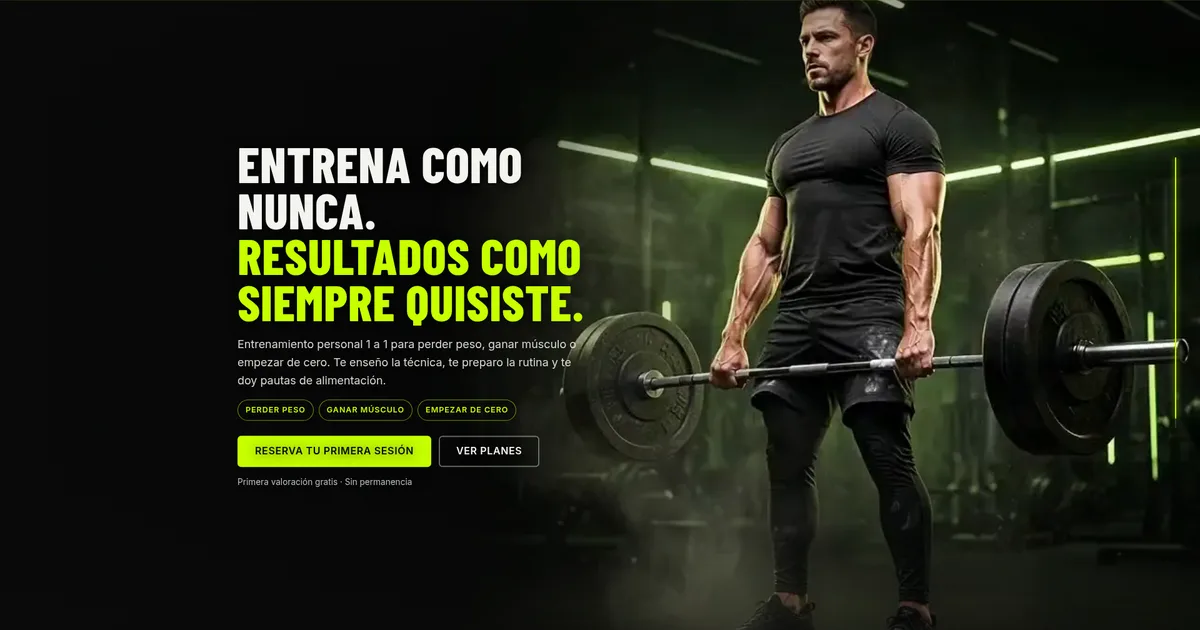
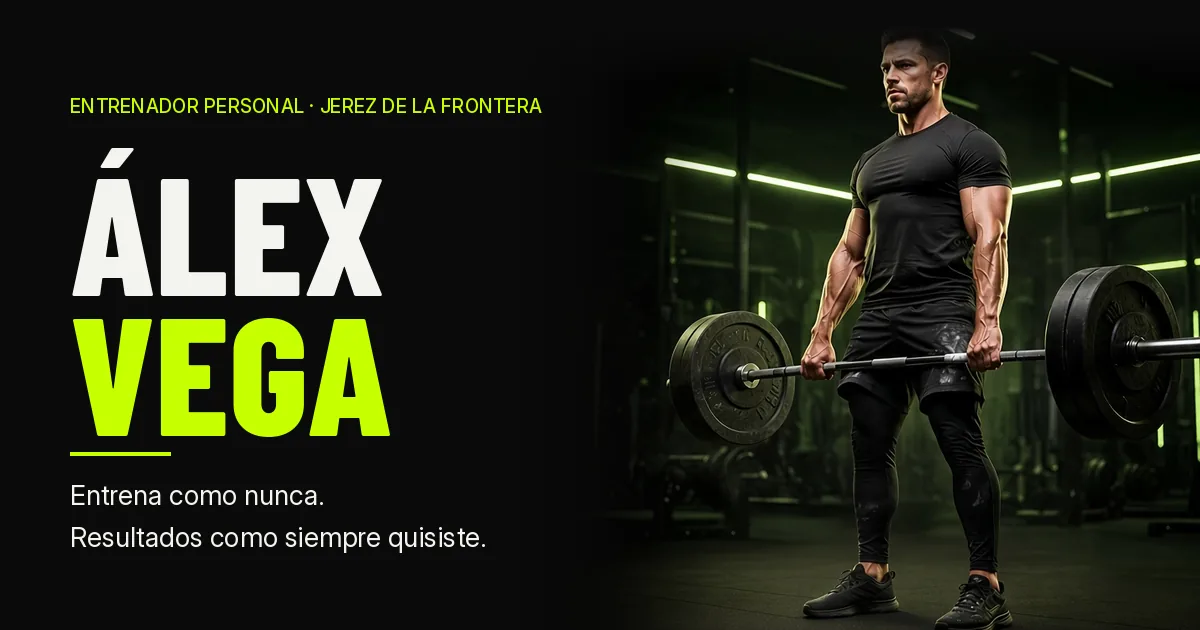
Tarjeta Álex Vega de Pixel

diff --git a/webs.js b/webs.js
@@ -5,7 +5,7 @@ window.WEBS = {
       img: "img/tarjetas/brasa-negra.webp", pos: "left center",
       texto: "Smash burgers a la brasa. Montaje con scroll, carta animada, reservas y mapa con humo." },
     { nombre: "Álex Vega", etiqueta: "Entrenador personal · Demo", url: "https://manuroma-es.github.io/alex-vega/",
-      img: "img/tarjetas/alex-vega.webp", pos: "center top",
+      img: "img/tarjetas/alex-vega.webp?v=2", pos: "left center",
       texto: "Entrenador personal en Jerez. Portada con scroll, giro de 360°, antes y después, planes en abanico y mapa con ruta animada." }
   ],
   clientes: [
